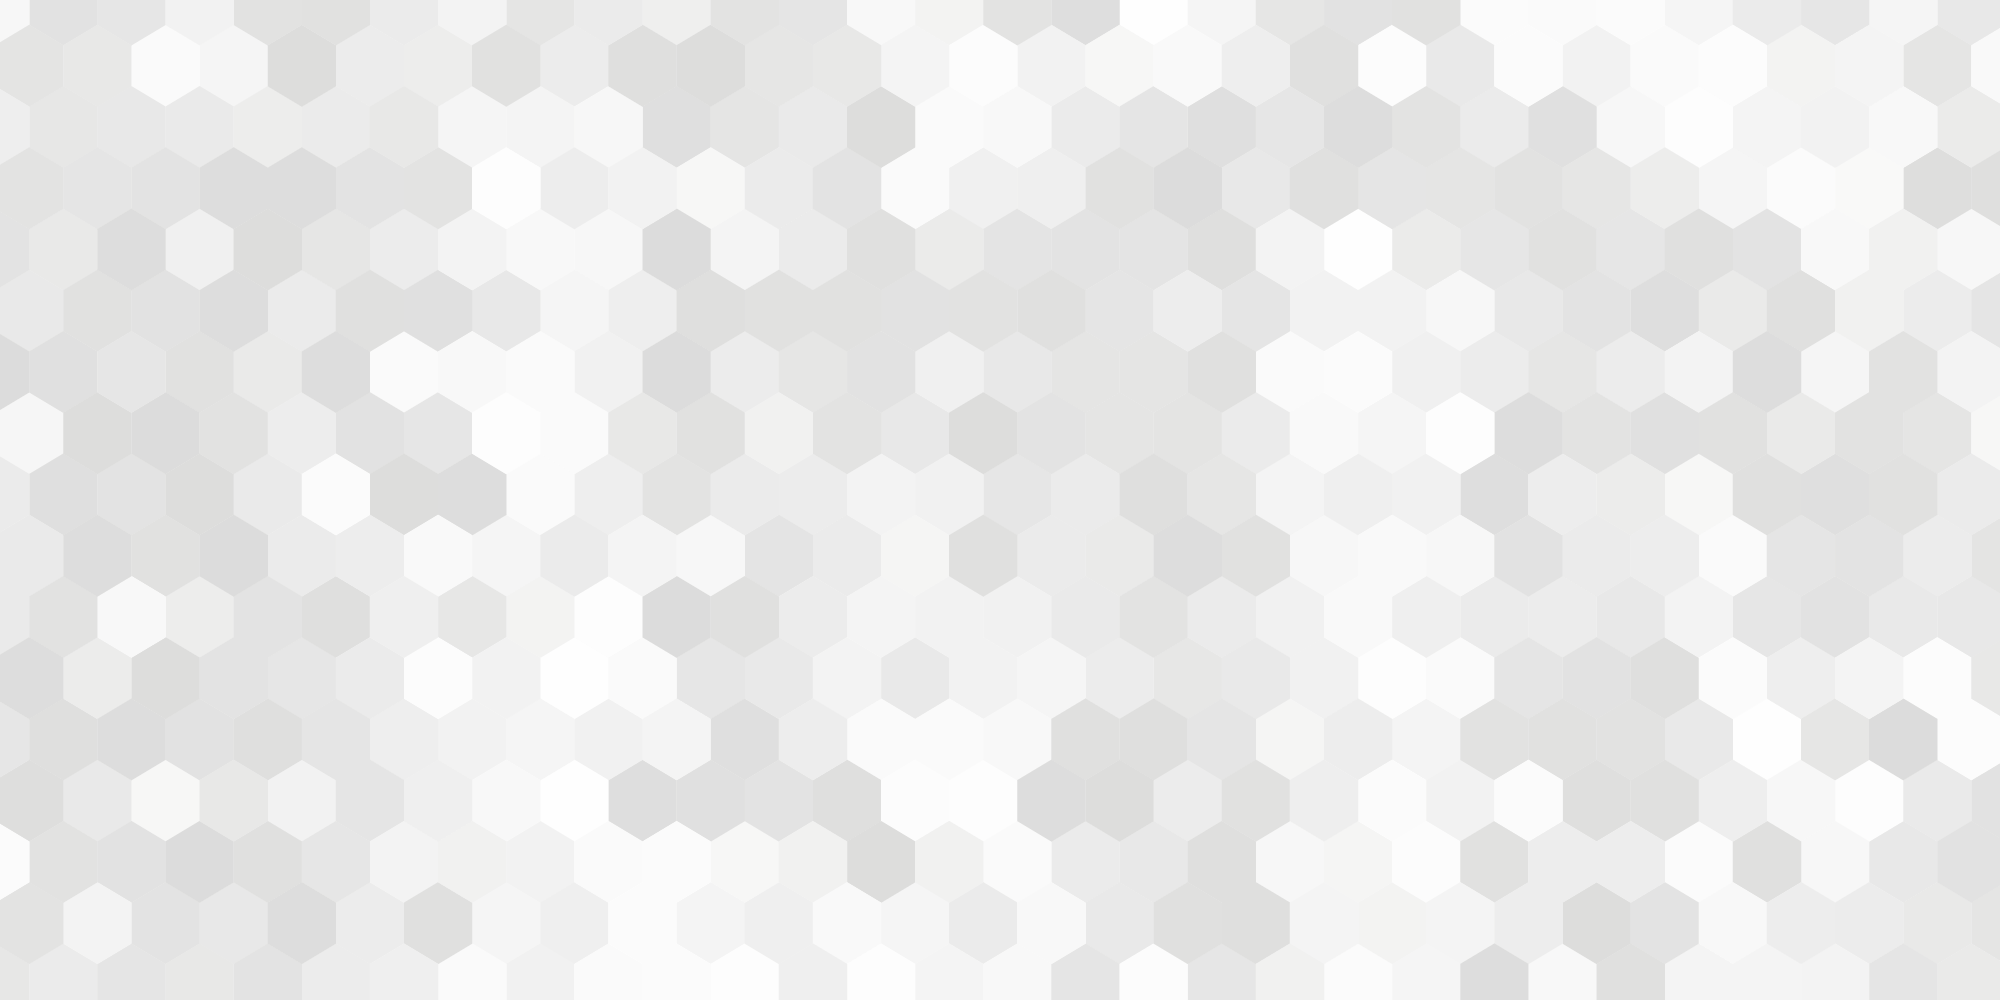
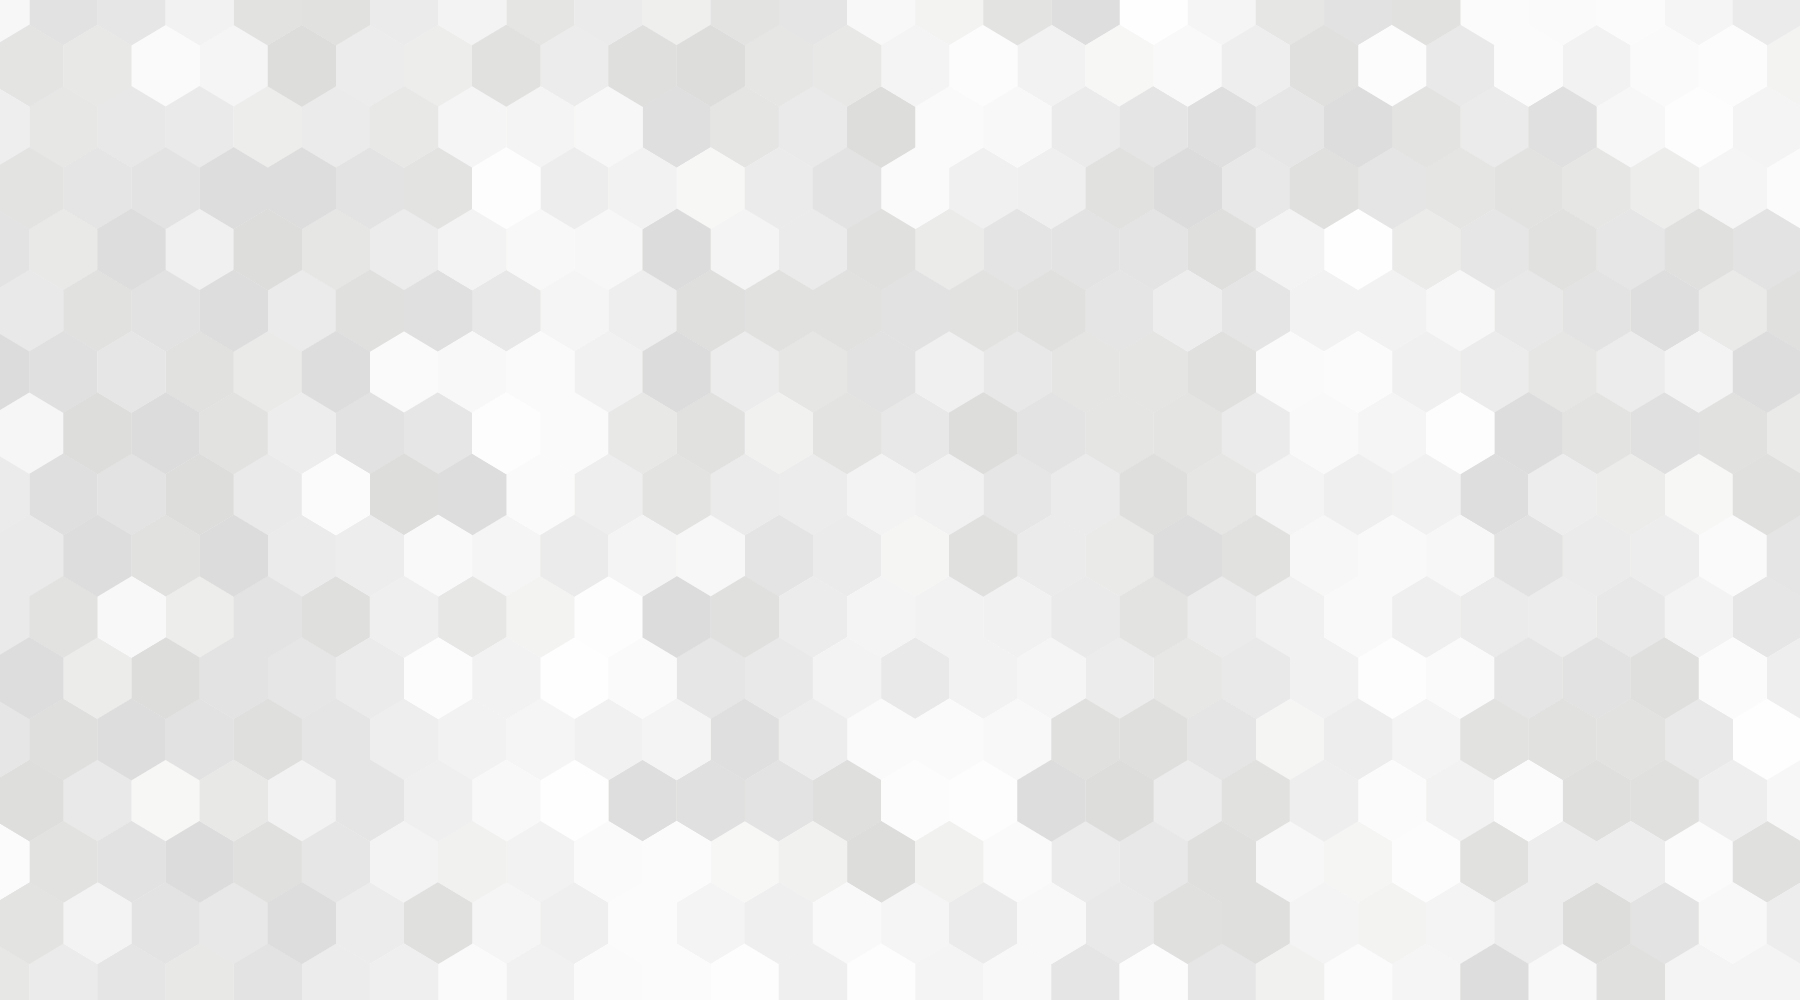
Generate small bg images for tablets

diff --git a/static/css/custom.css b/static/css/custom.css
@@ -6,7 +6,7 @@ body {
 
 
 #heading-breadcrumbs {
-  background: url('../img/hexagon.png') repeat;
+  background: url('../img/hexagon_small.png') repeat;
 }
 
 @media (min-width:1281px) {
@@ -49,7 +49,7 @@ body {
 /* carousel */
 
 #all .home-carousel {
-  background: url('../img/network.png') repeat;
+  background: url('../img/network_small.png') repeat;
 }
 
 @media (min-width:1281px) {
